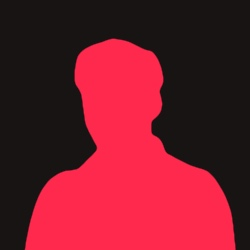
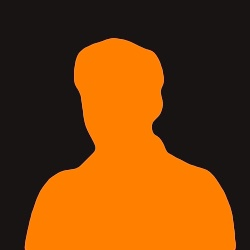
Change color scheme

diff --git a/css/main.css b/css/main.css
@@ -16,9 +16,13 @@ body {
     font-family: "Pier Sans";
 }
 
+footer h5 {
+    font-family: "Pier Sans";
+}
+
 .control {
   padding-top: 110px;
-  color: #ff284d;
+  color: #ff7f00;
 }
 
 .control:hover {
@@ -30,7 +34,7 @@ body {
 }
 
 .contact-div a:hover {
-  color: #ff284d;
+  color: #ff7f00;
 }
 
 ul {
@@ -69,7 +73,7 @@ ul {
 }
 
 .badge-notify:hover {
-  background: #ff284d;
+  background: #ff7f00;
 }
 
 .dim {
@@ -96,7 +100,7 @@ ul {
   background-color: rgba(0,0,0,0.0);
   color: #fff;
   margin: 10px;
-  border-color: #ff284d;
+  border-color: #ff7f00;
 }
 
 .signup {
@@ -105,13 +109,11 @@ ul {
 
 
 .theme-color {
-  color: #ff284d;
+  color: #ff7f00;
 }
 
 .go-down {
-  position: absolute;
-  top: 90%;
-  width: 100%;
+  margin-top: 2em;
 }
 
 .go-down a {
@@ -119,20 +121,20 @@ ul {
 }
 
 .go-down i:hover {
-  color: #ff284d;
+  color: #ff7f00;
 }
 
 .btn-theme {
-  color: #ff284d;
+  color: #ff7f00;
   background-color: rgba(255,255,255,0.0);
   margin: 10px;
-  border-color: #ff284d;
+  border-color: #ff7f00;
 }
 
 .btn-theme:hover {
   color: #fff;
-  background-color: #ff284d;
-  border-color: #ff284d;
+  background-color: #ff7f00;
+  border-color: #ff7f00;
 }
 
 .carousel,
@@ -173,7 +175,7 @@ ul {
 }
 
 .schedule-back:hover {
-  border: 0.25px solid #ff284d;
+  border: 0.25px solid #ff7f00;
   box-shadow: 0px 0px 5px rgba(0,0,0,0.5);
 }
 
@@ -266,17 +268,17 @@ ul {
 }
 
 .DocumentItem:hover {
-  color: #ff284d;
+  color: #ff7f00;
   box-shadow: 0px 0px 5px rgba(0,0,0,0.5);
 } 
 
 .DocumentItem:hover img {
-  border: 5px solid #ff284d;
+  border: 5px solid #ff7f00;
 }
 
 .TeamItem
 {
-    color: #ff284d;
+    color: #ff7f00;
     padding:10px;
     margin-top: 5px;
     margin-bottom: 5px;
@@ -285,7 +287,7 @@ ul {
 }
 
 .TeamItem img {
-  border: 1px solid #ff284d;
+  border: 1px solid #ff7f00;
 }
 
 .TeamItem:hover {
@@ -367,7 +369,7 @@ ul {
 
 .footer-distributed .footer-right a:hover {
 
-	color: #ff284d;
+	color: #ff7f00;
 }
 
 /* If you don't want the footer to be responsive, remove these media queries */
@@ -407,7 +409,7 @@ ul {
   transition: background 0.3s ease-in-out;
 }
 .navbar-custom .nav li a:hover {
-  color: #ff284d;
+  color: #ff7f00;
   outline: 0;
   background-color: transparent;
 }
@@ -420,7 +422,7 @@ ul {
   outline: none;
 }
 .navbar-custom .nav li.active a {
-  color: #ff284d;
+  color: #ff7f00;
 }
 .navbar-custom .nav li.active a:hover {
   color: white;
@@ -558,7 +560,7 @@ form {
 			}
 
 			form .message.success {
-				color: #ff284d;
+				color: #ff7f00;
 			}
 
 				form .message.success:before {
@@ -720,7 +722,7 @@ form {
 			-ms-animation: focus 0.1s;
 			animation: focus 0.1s;
 			background-color: rgba(255, 255, 255, 0.125);
-			border-color: #ff284d;
+			border-color: #ff7f00;
 		}
 
 	.select-wrapper {
@@ -822,16 +824,16 @@ form {
 
 		input[type="checkbox"]:checked + label:before,
 		input[type="radio"]:checked + label:before {
-			background: #ff284d;
-			border-color: #ff284d;
+			background: #ff7f00;
+			border-color: #ff7f00;
 			color: #ffffff;
 			content: '\f00c';
 		}
 
 		input[type="checkbox"]:focus + label:before,
 		input[type="radio"]:focus + label:before {
-			border-color: #ff284d;
-			box-shadow: 0 0 0 2px #ff284d;
+			border-color: #ff7f00;
+			box-shadow: 0 0 0 2px #ff7f00;
 		}
 
 	input[type="checkbox"] + label:before {
